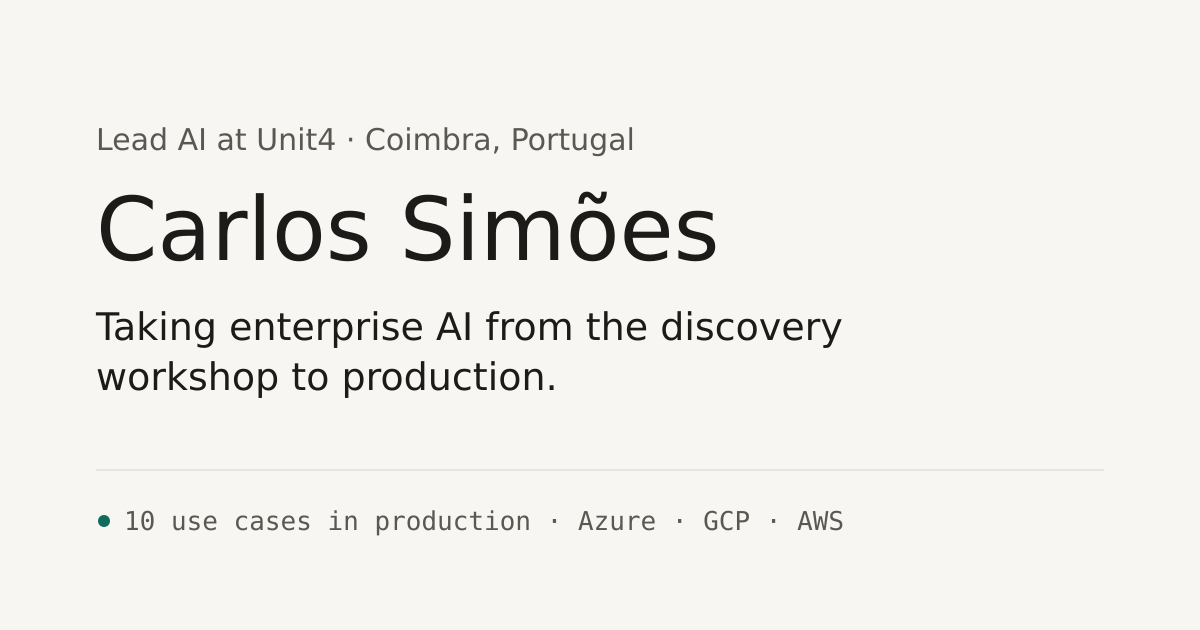
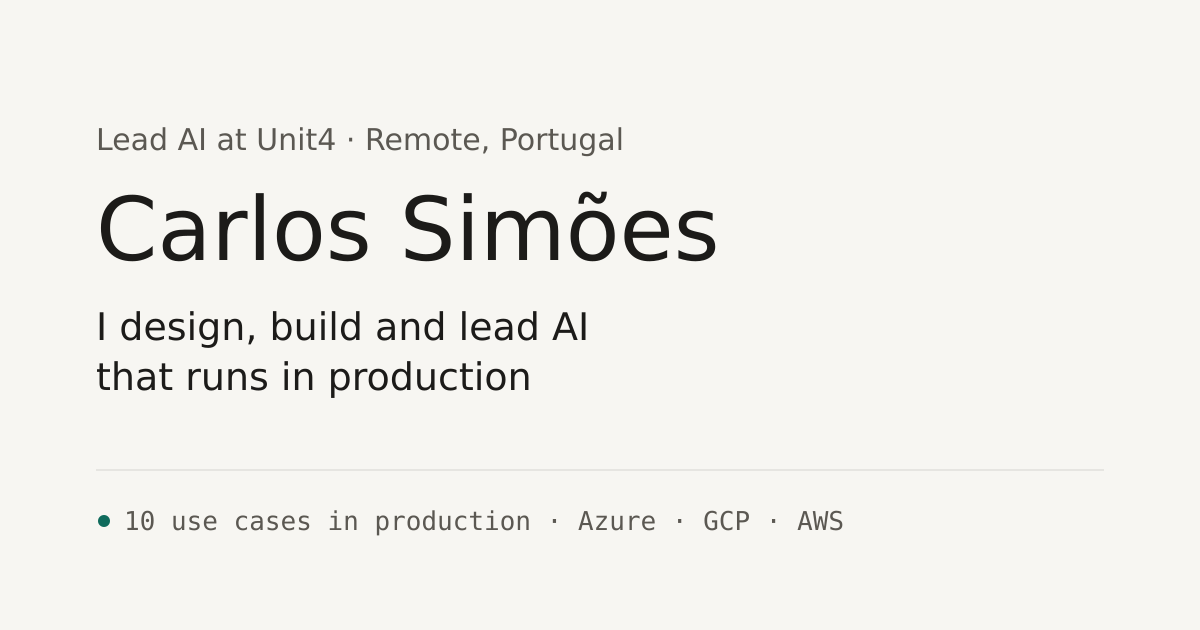
Rewrite hero copy; location as Remote, Portugal

Changed region(s): [[0.0617, 0.4825, 0.7092, 0.6333], [0.3083, 0.2111, 0.5242, 0.2413]]

diff --git a/index.html b/index.html
@@ -4,7 +4,7 @@
   <meta charset="utf-8">
   <meta name="viewport" content="width=device-width, initial-scale=1">
   <title>Carlos Simões · Lead AI</title>
-  <meta name="description" content="Carlos Simões, AI engineering lead and architect. Lead AI at Unit4: 10 use cases in production on Azure, from discovery workshop to governed platform. Previously Airbus, Nokia and Accenture.">
+  <meta name="description" content="Carlos Simões designs, builds and leads AI that runs in production. Lead AI at Unit4, previously Airbus, Nokia and Accenture.">
   <meta name="author" content="Carlos Simões">
   <link rel="canonical" href="https://carlosimoes.github.io/CS/">
   <meta name="theme-color" content="#f7f6f2" media="(prefers-color-scheme: light)">
@@ -13,7 +13,7 @@
   <meta property="og:type" content="profile">
   <meta property="og:site_name" content="Carlos Simões">
   <meta property="og:title" content="Carlos Simões · Lead AI">
-  <meta property="og:description" content="AI engineering lead taking enterprise AI from discovery workshop to production. Lead AI at Unit4; previously Airbus, Nokia and Accenture.">
+  <meta property="og:description" content="I design, build and lead AI that runs in production. Lead AI at Unit4, previously Airbus, Nokia and Accenture.">
   <meta property="og:url" content="https://carlosimoes.github.io/CS/">
   <meta property="og:image" content="https://carlosimoes.github.io/CS/images/og-image.png">
   <meta property="og:image:width" content="1200">
@@ -23,7 +23,7 @@
   <meta property="profile:last_name" content="Simões">
   <meta name="twitter:card" content="summary_large_image">
   <meta name="twitter:title" content="Carlos Simões · Lead AI">
-  <meta name="twitter:description" content="AI engineering lead taking enterprise AI from discovery workshop to production.">
+  <meta name="twitter:description" content="I design, build and lead AI that runs in production.">
   <meta name="twitter:image" content="https://carlosimoes.github.io/CS/images/og-image.png">
 
   <link rel="icon" href="images/favicon.svg" type="image/svg+xml">
@@ -40,7 +40,7 @@
     "name": "Carlos Simões",
     "jobTitle": "Lead AI",
     "worksFor": { "@type": "Organization", "name": "Unit4" },
-    "address": { "@type": "PostalAddress", "addressLocality": "Coimbra", "addressCountry": "PT" },
+    "address": { "@type": "PostalAddress", "addressCountry": "PT" },
     "email": "mailto:simoes.cmas@gmail.com",
     "url": "https://carlosimoes.github.io/CS/",
     "image": "https://carlosimoes.github.io/CS/images/about.webp",
@@ -73,9 +73,9 @@
   <main id="main">
     <section class="hero wrap" aria-labelledby="hero-title">
       <div class="hero-copy">
-        <p class="eyebrow">Lead AI at Unit4 · Coimbra, Portugal</p>
-        <h1 id="hero-title">I take enterprise AI from the discovery workshop to production.</h1>
-        <p class="lede">AI engineering lead and architect. At Unit4 I lead a team of 10 consultants on 7 production use cases, after shipping 3 document-AI solutions as sole engineer. Hands-on from solution architecture and cloud infrastructure to RAG, agents and document AI on Azure, GCP and AWS.</p>
+        <p class="eyebrow">Lead AI at Unit4 · Remote, Portugal</p>
+        <h1 id="hero-title">I design, build and lead AI that runs in production</h1>
+        <p class="lede">At Unit4 I architect the platform, build the systems and lead the team that delivers them, with 10 use cases live across Finance, Sales Ops, People and Customer Success. Before that: GenAI at Airbus, NLP at Nokia and data science at Accenture.</p>
         <div class="actions">
           <a class="btn" href="cv/Carlos_Simoes_CV_AI.pdf" download>
             <svg class="i" viewBox="0 0 24 24" aria-hidden="true"><path d="M21 15v4a2 2 0 0 1-2 2H5a2 2 0 0 1-2-2v-4"/><path d="m7 10 5 5 5-5"/><path d="M12 15V3"/></svg>
@@ -167,7 +167,7 @@
       <ol class="timeline">
         <li>
           <p class="when mono">Nov 2025 – present</p>
-          <h3>Lead AI <span class="org">Unit4 · Coimbra, remote</span></h3>
+          <h3>Lead AI <span class="org">Unit4 · Remote, Portugal</span></h3>
           <p>Leads AI delivery from discovery to production across Finance, Sales Ops, People and Customer Success. Designed and built the shared AI platform from scratch, and owns engineering standards and hiring for the AI team.</p>
         </li>
         <li>
@@ -231,7 +231,7 @@
         <li><a href="mailto:simoes.cmas@gmail.com"><svg class="i" viewBox="0 0 24 24" aria-hidden="true"><rect x="2" y="4" width="20" height="16" rx="2"/><path d="m22 7-10 6L2 7"/></svg>simoes.cmas@gmail.com</a></li>
         <li><a href="https://linkedin.com/in/cmasimoes" rel="me noopener"><svg class="i" viewBox="0 0 24 24" aria-hidden="true"><path d="M16 8a6 6 0 0 1 6 6v7h-4v-7a2 2 0 0 0-4 0v7h-4v-7a6 6 0 0 1 6-6z"/><rect x="2" y="9" width="4" height="12"/><circle cx="4" cy="4" r="2"/></svg>in/cmasimoes</a></li>
         <li><a href="https://github.com/carlosimoes" rel="me noopener"><svg class="i" viewBox="0 0 24 24" aria-hidden="true"><path d="M15 22v-4a4.8 4.8 0 0 0-1-3.5c3 0 6-2 6-5.5.08-1.25-.27-2.48-1-3.5.28-1.15.28-2.35 0-3.5 0 0-1 0-3 1.5-2.64-.5-5.36-.5-8 0C6 2 5 2 5 2c-.3 1.15-.3 2.35 0 3.5A5.403 5.403 0 0 0 4 9c0 3.5 3 5.5 6 5.5-.39.49-.68 1.05-.85 1.65-.17.6-.22 1.23-.15 1.85v4"/><path d="M9 18c-4.51 2-5-2-7-2"/></svg>carlosimoes</a></li>
-        <li><span><svg class="i" viewBox="0 0 24 24" aria-hidden="true"><path d="M20 10c0 4.993-5.539 10.193-7.399 11.799a1 1 0 0 1-1.202 0C9.539 20.193 4 14.993 4 10a8 8 0 0 1 16 0"/><circle cx="12" cy="10" r="3"/></svg>Coimbra, Portugal</span></li>
+        <li><span><svg class="i" viewBox="0 0 24 24" aria-hidden="true"><path d="M20 10c0 4.993-5.539 10.193-7.399 11.799a1 1 0 0 1-1.202 0C9.539 20.193 4 14.993 4 10a8 8 0 0 1 16 0"/><circle cx="12" cy="10" r="3"/></svg>Remote, Portugal</span></li>
       </ul>
       <img class="portrait" src="images/about.webp" width="320" height="320" alt="Portrait of Carlos Simões" loading="lazy" decoding="async">
     </section>
